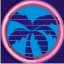
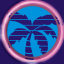
part of graphic design

diff --git a/CityClickerGame/CityClickerGame/MainWindow.xaml b/CityClickerGame/CityClickerGame/MainWindow.xaml
@@ -25,23 +25,23 @@
         </Grid.ColumnDefinitions>
 
         <Button x:Name="clickArea" HorizontalAlignment="Left" Margin="10,10,0,0" VerticalAlignment="Top" Width="309" Height="530" FontSize="48" Click="ClickArea_Click" >
-            <Image Source="Resources/clickAreaBackground.jpg"/>
+            <Image Source="Resources/clickAreaBackground.png"/>
         </Button>
 
         <Button x:Name="object1" HorizontalAlignment="Left" Margin="338,10,0,0" VerticalAlignment="Top" Width="127" Height="118" Click="BuyObject">
-            <Image Source="Resources/object1.jpg"/>
+            <Image Source="Resources/object1.png"/>
         </Button>
 
         <TextBlock x:Name="object1Amount" x:FieldModifier="public" HorizontalAlignment="Left" Margin="341,13,0,0" TextWrapping="Wrap" Text="0" VerticalAlignment="Top" Width="127" Height="18"/>
 
         <Button x:Name="object5" HorizontalAlignment="Left" Margin="338,162,0,0" VerticalAlignment="Top" Width="127" Height="118" Click="BuyObject">
-            <Image Source="Resources/object5.jpg"/>
+            <Image Source="Resources/object5.png"/>
         </Button>
 
         <TextBlock x:Name="object5Amount" x:FieldModifier="public" HorizontalAlignment="Left" Margin="341,164,0,0" TextWrapping="Wrap" Text="0" VerticalAlignment="Top" Width="127" Height="19"/>
 
         <Button x:Name="object9"  HorizontalAlignment="Left" Margin="338,315,0,0" VerticalAlignment="Top" Width="127" Height="118" Click="BuyObject">
-            <Image Source="Resources/object9.jpg"/>
+            <Image Source="Resources/object9.png"/>
         </Button>
 
         <TextBlock x:Name="object9Amount" x:FieldModifier="public" HorizontalAlignment="Left" Margin="341,317,0,0" TextWrapping="Wrap" Text="0" VerticalAlignment="Top" Width="127" Height="19"/>
@@ -53,7 +53,7 @@
         <TextBlock x:Name="object13Amount" x:FieldModifier="public" HorizontalAlignment="Left" Margin="341,469,0,0" TextWrapping="Wrap" Text="0" VerticalAlignment="Top" Width="127" Height="19"/>
 
         <Button x:Name="object2" HorizontalAlignment="Left" Margin="488,10,0,0" VerticalAlignment="Top" Width="127" Height="118" Click="BuyObject">
-            <Image Source="Resources/object2.jpg"/>
+            <Image Source="Resources/object2.png"/>
         </Button>
 
         <TextBlock x:Name="object2Amount" x:FieldModifier="public" HorizontalAlignment="Left" Margin="491,13,0,0" TextWrapping="Wrap" Text="0" VerticalAlignment="Top" Width="127" Height="18"/>
@@ -65,31 +65,31 @@
         <TextBlock x:Name="object6Amount" x:FieldModifier="public" HorizontalAlignment="Left" Margin="491,164,0,0" TextWrapping="Wrap" Text="0" VerticalAlignment="Top" Width="127" Height="19"/>
 
         <Button x:Name="object10" HorizontalAlignment="Left" Margin="488,315,0,0" VerticalAlignment="Top" Width="127" Height="118" Click="BuyObject">
-            <Image Source="Resources/object10.jpg"/>
+            <Image Source="Resources/object10.png"/>
         </Button>
 
         <TextBlock x:Name="object10Amount" x:FieldModifier="public" HorizontalAlignment="Left" Margin="491,317,0,0" TextWrapping="Wrap" Text="0" VerticalAlignment="Top" Width="127" Height="19"/>
 
         <Button x:Name="object14" HorizontalAlignment="Left" Margin="488,467,0,0" VerticalAlignment="Top" Width="127" Height="117" Click="BuyObject">
-            <Image Source="Resources/object14.jpg"/>
+            <Image Source="Resources/object14.png"/>
         </Button>
 
         <TextBlock x:Name="object14Amount" x:FieldModifier="public" HorizontalAlignment="Left" Margin="491,469,0,0" TextWrapping="Wrap" Text="0" VerticalAlignment="Top" Width="127" Height="19"/>
 
         <Button x:Name="object3" HorizontalAlignment="Left" Margin="639,10,0,0" VerticalAlignment="Top" Width="127" Height="118" Click="BuyObject">
-            <Image Source="Resources/object3.jpg"/>
+            <Image Source="Resources/object3.png"/>
         </Button>
 
         <TextBlock x:Name="object3Amount" x:FieldModifier="public" HorizontalAlignment="Left" Margin="642,13,0,0" TextWrapping="Wrap" Text="0" VerticalAlignment="Top" Width="127" Height="18"/>
 
         <Button x:Name="object7" HorizontalAlignment="Left" Margin="639,162,0,0" VerticalAlignment="Top" Width="127" Height="118" Click="BuyObject">
-            <Image Source="Resources/object7.jpg"/>
+            <Image Source="Resources/object7.png"/>
         </Button>
 
         <TextBlock x:Name="object7Amount" x:FieldModifier="public" HorizontalAlignment="Left" Margin="642,164,0,0" TextWrapping="Wrap" Text="0" VerticalAlignment="Top" Width="127" Height="19"/>
 
         <Button x:Name="object11" HorizontalAlignment="Left" Margin="639,315,0,0" VerticalAlignment="Top" Width="127" Height="118" Click="BuyObject">
-            <Image Source="Resources/object11.jpg"/>
+            <Image Source="Resources/object11.png"/>
         </Button>
 
         <TextBlock x:Name="object11Amount" x:FieldModifier="public" HorizontalAlignment="Left" Margin="642,317,0,0" TextWrapping="Wrap" Text="0" VerticalAlignment="Top" Width="127" Height="19"/>
@@ -101,19 +101,19 @@
         <TextBlock x:Name="object15Amount" x:FieldModifier="public" HorizontalAlignment="Left" Margin="642,469,0,0" TextWrapping="Wrap" Text="0" VerticalAlignment="Top" Width="127" Height="19"/>
 
         <Button x:Name="object4" HorizontalAlignment="Left" Margin="789,10,0,0" VerticalAlignment="Top" Width="127" Height="118" Click="BuyObject" Grid.ColumnSpan="2">
-            <Image Source="Resources/object4.jpg"/>
+            <Image Source="Resources/object4.png"/>
         </Button>
 
         <TextBlock x:Name="object4Amount" x:FieldModifier="public" HorizontalAlignment="Left" Margin="792,13,0,0" TextWrapping="Wrap" Text="0" VerticalAlignment="Top" Width="127" Height="18" Grid.ColumnSpan="2"/>
 
         <Button x:Name="object8" HorizontalAlignment="Left" Margin="789,162,0,0" VerticalAlignment="Top" Width="127" Height="118" Click="BuyObject" Grid.ColumnSpan="2">
-            <Image Source="Resources/object8.jpg"/>
+            <Image Source="Resources/object8.png"/>
         </Button>
 
         <TextBlock x:Name="object8Amount" x:FieldModifier="public" HorizontalAlignment="Left" Margin="792,164,0,0" TextWrapping="Wrap" Text="0" VerticalAlignment="Top" Width="127" Height="19" Grid.ColumnSpan="2"/>
 
         <Button x:Name="object12" HorizontalAlignment="Left" Margin="789,315,0,0" VerticalAlignment="Top" Width="127" Height="118" Click="BuyObject" Grid.ColumnSpan="2">
-            <Image Source="Resources/object12.jpg"/>
+            <Image Source="Resources/object12.png"/>
         </Button>
 
         <TextBlock x:Name="object12Amount" x:FieldModifier="public" HorizontalAlignment="Left" Margin="792,317,0,0" TextWrapping="Wrap" Text="0" VerticalAlignment="Top" Width="127" Height="19" Grid.ColumnSpan="2"/>
